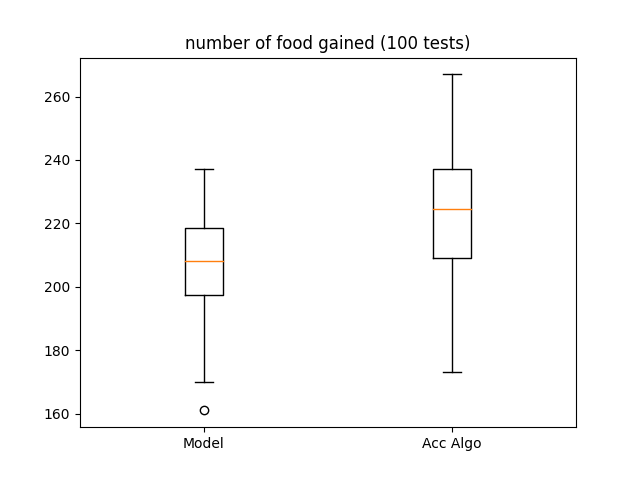
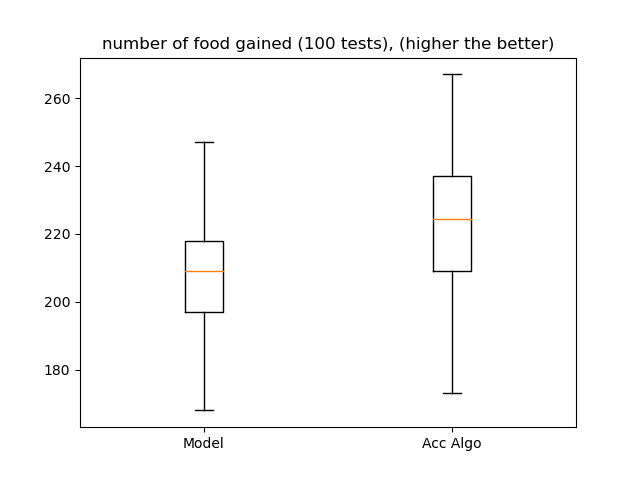
more graph analysis

diff --git a/StatisticalAnalysis.py b/StatisticalAnalysis.py
@@ -1,5 +1,4 @@
 import matplotlib.pyplot as plt
-import numpy
 import numpy as np
 
 AccAlgo = open("Evaluation/Score/AccumAlgo.txt", "r")
@@ -11,30 +10,13 @@ acc_round_nums = []
 acc_resets = []
 acc_food_gained = []
 
-# acc_round_nums_std = []
-# acc_resets_std = []
-# acc_food_gained_std = []
-#
-# acc_round_nums_avg = []
-# acc_resets_avg = []
-# acc_food_gained_avg = []
-
 for v in acc_result_list:
     i = v.split(", ")
     acc_round_nums.append(int(i[0]))
     acc_resets.append(int(i[1]))
     acc_food_gained.append(int(i[2]))
 
-# acc_round_nums_avg = sum(acc_round_nums) / len(acc_round_nums)
-# acc_round_nums_std = numpy.std(acc_round_nums)
-#
-# acc_resets_avg = sum(acc_resets) / len(acc_resets)
-# acc_resets_std = numpy.std(acc_resets)
-#
-# acc_food_gained_avg = sum(acc_food_gained) / len(acc_food_gained)
-# acc_food_gained_std = numpy.std(acc_food_gained)
-
-Model = open("Evaluation/Score/Model.txt", "r")
+Model = open("Evaluation/Score/Model (2).txt", "r")
 
 model_result_list = Model.read().split("\n")
 model_result_list.pop()
@@ -43,31 +25,11 @@ model_round_nums = []
 model_resets = []
 model_food_gained = []
 
-# model_round_nums_std = []
-# model_resets_std = []
-# model_food_gained_std = []
-#
-# model_round_nums_avg = []
-# model_resets_avg = []
-# model_food_gained_avg = []
-
 for d in model_result_list:
     i = d.split(", ")
     model_round_nums.append(int(i[0]))
     model_resets.append(int(i[1]))
     model_food_gained.append(int(i[2]))
-
-# model_round_nums_avg = sum(model_round_nums) / len(model_round_nums)
-# model_round_nums_std = numpy.std(model_round_nums)
-#
-# model_resets_avg = sum(model_resets) / len(model_resets)
-# model_resets_std = numpy.std(model_resets)
-#
-# model_food_gained_avg = sum(model_food_gained) / len(model_food_gained)
-# model_food_gained_std = numpy.std(model_food_gained)
-
-# Creating axes instance
-# ax = fig.add_axes([0, 0, 1, 1])
 
 round_nums = [np.array(model_round_nums), np.array(acc_round_nums)]
 reset_nums = [np.array(model_resets), np.array(acc_resets)]
@@ -75,22 +37,110 @@ food_gained_nums = [np.array(model_food_gained), np.array(acc_food_gained)]
 
 # Creating plot
 plt.boxplot(round_nums)
-plt.title("rounds per test")
+plt.title("rounds per test (higher the better)")
 plt.xticks([1, 2], ["Model", "Acc Algo"])
 
 # show plot
 plt.show()
 
 plt.boxplot(reset_nums)
-plt.title("number of resets (100 tests)")
+plt.title("number of resets (100 tests), (lower the better)")
 plt.xticks([1, 2], ["Model", "Acc Algo"])
 
 # show plot
 plt.show()
 
 plt.boxplot(food_gained_nums)
-plt.title("number of food gained (100 tests)")
+plt.title("number of food gained (100 tests), (higher the better)")
 plt.xticks([1, 2], ["Model", "Acc Algo"])
+
+# show plot
+plt.show()
+ratio_final = [np.array(model_food_gained) / np.array(model_resets), np.array(acc_food_gained) / np.array(acc_resets)]
+plt.boxplot(ratio_final)
+plt.title("ratio between food gained and reset (higher the better)")
+plt.xticks([1, 2], ["Model", "Acc Algo"])
+
+# show plot
+plt.show()
+
+round_nums = [np.array(model_round_nums), np.array(acc_round_nums)]
+reset_nums = [np.array(model_resets), np.array(acc_resets)]
+food_gained_nums = [np.array(model_food_gained), np.array(acc_food_gained)]
+
+# Creating plot
+plt.boxplot(round_nums)
+plt.title("rounds per test (higher the better)")
+plt.xticks([1, 2], ["Model", "Acc Algo"])
+
+# show plot
+plt.show()
+
+plt.boxplot(reset_nums)
+plt.title("number of resets (100 tests), (lower the better)")
+plt.xticks([1, 2], ["Model", "Acc Algo"])
+
+# show plot
+plt.show()
+
+plt.boxplot(food_gained_nums)
+plt.title("number of food gained (100 tests), (higher the better)")
+plt.xticks([1, 2], ["Model", "Acc Algo"])
+
+# show plot
+plt.show()
+ratio_final = [np.array(model_food_gained) / np.array(model_resets), np.array(acc_food_gained) / np.array(acc_resets)]
+plt.boxplot(ratio_final)
+plt.title("ratio between food gained and reset (higher the better)")
+plt.xticks([1, 2], ["Model", "Acc Algo"])
+
+# show plot
+plt.show()
+
+Model_test = open("Evaluation/Score/model gen moves first.txt", "r")
+
+model_test_result_list = Model_test.read().split("\n")
+model_test_result_list.pop()
+
+model_test_round_nums = []
+model_test_resets = []
+model_test_food_gained = []
+
+for d in model_test_result_list:
+    i = d.split(", ")
+    model_test_round_nums.append(int(i[0]))
+    model_test_resets.append(int(i[1]))
+    model_test_food_gained.append(int(i[2]))
+
+round_nums.append(np.array(model_test_round_nums))
+reset_nums.append(np.array(model_test_resets))
+food_gained_nums.append(np.array(model_test_food_gained))
+
+# Creating plot
+plt.boxplot(round_nums)
+plt.title("rounds per test (higher the better)")
+plt.xticks([1, 2, 3], ["Model", "Acc Algo", "Model (gen move first)"])
+
+# show plot
+plt.show()
+
+plt.boxplot(reset_nums)
+plt.title("number of resets (100 tests), (lower the better)")
+plt.xticks([1, 2, 3], ["Model", "Acc Algo", "Model (gen move first)"])
+
+# show plot
+plt.show()
+
+plt.boxplot(food_gained_nums)
+plt.title("number of food gained (100 tests), (higher the better)")
+plt.xticks([1, 2, 3], ["Model", "Acc Algo", "Model (gen move first)"])
+
+# show plot
+plt.show()
+ratio_final.append(np.array(model_test_food_gained) / np.array(model_test_resets))
+plt.boxplot(ratio_final)
+plt.title("ratio between food gained and reset (higher the better)")
+plt.xticks([1, 2, 3], ["Model", "Acc Algo", "Model (gen move first)"])
 
 # show plot
 plt.show()
